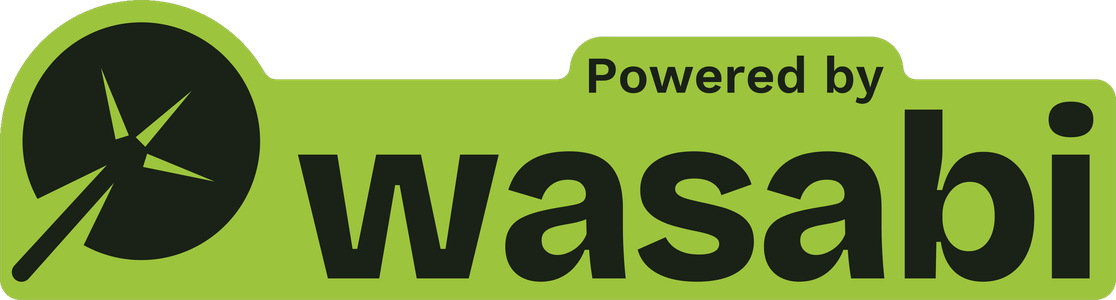
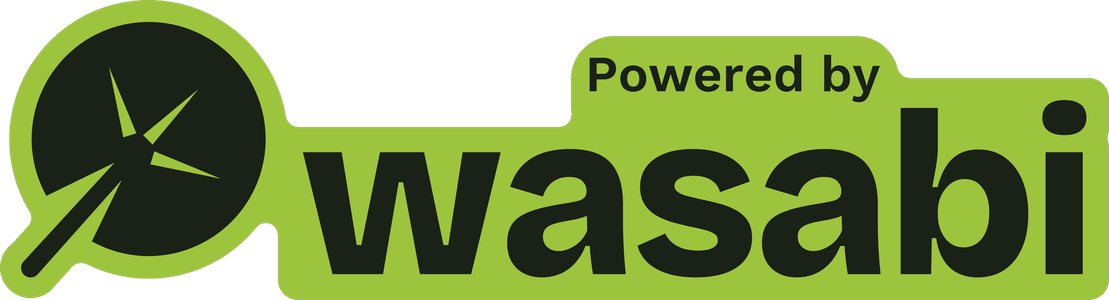
Welcome badge: edge follows the leaf, stem and word more closely
The green edge now hugs the leaf and its stem, cuts in below the leaf,
runs low over the short letters, rises into the "Powered by" notch and
stays level with the tall b and i.

Claude-Session: https://claude.ai/code/session_01JPPWy6yUSPjDnAeVwCrzYx

diff --git a/styles.css b/styles.css
@@ -315,7 +315,7 @@ button.mitem:hover,a.mitem:hover,button.mitem:focus-visible,a.mitem:focus-visibl
 .hello-name{display:block;max-width:80vw;background:var(--accent);color:var(--accent-ink);font-family:var(--display);text-transform:var(--dcase,uppercase);
   font-weight:700;font-size:40px;line-height:1.05;text-align:center;padding:22px 28px;border-radius:24px;border:8px solid #fff;box-shadow:0 10px 24px rgba(0,0,0,.25)}
 .hello-tap{margin-top:30px;margin-bottom:auto;color:#f6f4ee;font-size:16px;font-weight:600;letter-spacing:.01em}
-/* "Powered by Wasabi": a wasabi-green die-cut badge (img/brand/powered-by-wasabi.png): round bump around the leaf, "Powered by" in a rounded pop-up notch before the b; the stem ends on the letters' baseline. */
+/* "Powered by Wasabi": a wasabi-green die-cut badge (img/brand/powered-by-wasabi.png): the edge follows the leaf and stem, then the word: low over "wasa", a rounded notch for "Powered by", level with the tall b and i. */
 .hello-by{display:block;animation:hello-pop .35s .12s cubic-bezier(.2,.9,.3,1.25) both}
 .hello-wasabi{display:block;height:72px;width:auto;filter:drop-shadow(0 4px 10px rgba(0,0,0,.28))}
 body.hello-on{overflow:hidden}
